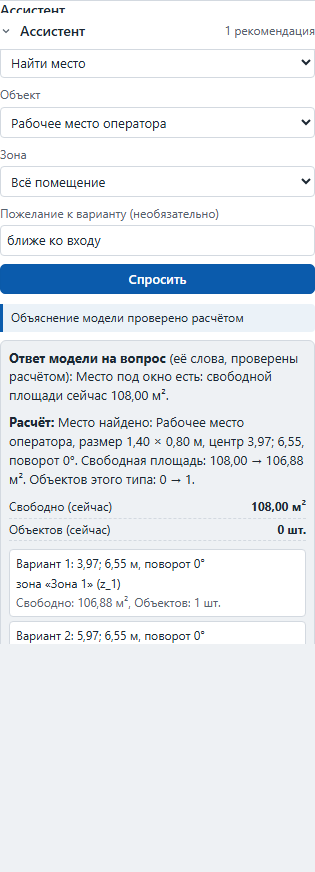
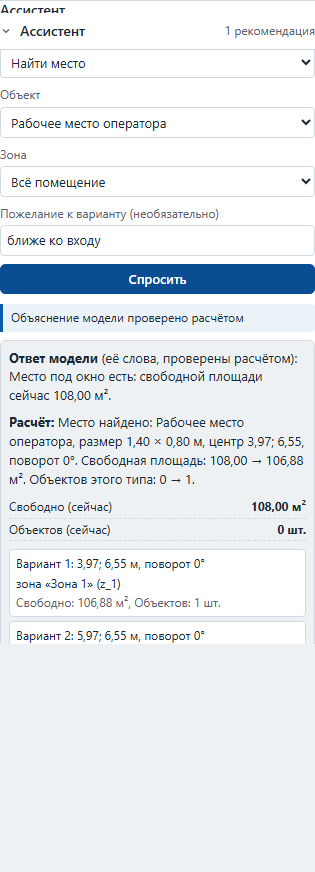
ai: подпись ответа модели согласована с названием поля

Changed region(s): [[0.0, 0.2787, 1.0, 0.3406], [0.0286, 0.4025, 0.9429, 0.4644]]

diff --git a/tests/e2e/assistant.spec.ts b/tests/e2e/assistant.spec.ts
@@ -302,7 +302,7 @@ test.describe('ассистент в браузере', () => {
     await panel(page).getByRole('button', { name: 'Спросить' }).click();
 
     const answer = panel(page).getByTestId('assistant-answer');
-    await expect(answer).toContainText('Ответ модели на вопрос');
+    await expect(answer).toContainText('Ответ модели');
     await expect(answer).toContainText('Место под окно есть');
     await expect(answer).toContainText(/\d+,\d\d м²/);
     // Вопрос учтён — плашки про неучтённый вопрос быть не должно.

diff --git a/src/features/assistant/AssistantPanel.tsx b/src/features/assistant/AssistantPanel.tsx
@@ -274,7 +274,7 @@ export function AssistantPanel({
               <article key={recommendation.id} className="advice">
                 {explanation?.text === undefined ? null : (
                   <p className="advice__sentence advice__answer" data-testid="assistant-answer">
-                    <strong>Ответ модели на вопрос</strong> (её слова, проверены расчётом):{' '}
+                    <strong>Ответ модели</strong> (её слова, проверены расчётом):{' '}
                     {explanation.text}
                   </p>
                 )}

diff --git a/docs/tz-compliance.md b/docs/tz-compliance.md
@@ -86,7 +86,7 @@
 | А6 | Обозначены правила комплектования и допущения | `source` и `rationale` у каждого правила; `provenance` у каждого типа; панель печатает допущения и ограничения рядом с рекомендацией | `catalog.test.ts` и `equipment.test.ts`: источник правила в тексте; `tests/e2e/assistant.spec.ts`: в браузере видно «Допущения и правила» и ограничение рекомендации | ✅ (C01+A02+A06): источник правила виден проверяющему, не читая код |
 | А7 | Связь рекомендации и результата: что, почему, как отразилось на планировке и показателях | `Recommendation.changes` и факты before/after/delta в панели ассистента; демо-комплект E01 — `demo/recommendation.json` (что менять, `id`, правила, допущения) и `demo/effect.md` (было → стало) | `compare.test.ts`: пять видов изменений попадают в `changes`; `tests/demo.test.ts`: применённые изменения совпадают с рекомендацией, а таблица эффекта — с расчётом по обоим планам; `tests/e2e/demo.spec.ts`: та же рекомендация, применённая руками в редакторе, даёт ровно `after.json` | ✅ (A03+A06+E01): свободная площадь 114,49 → 113,69 м², скамей в зоне ожидания 1 → 2, табло 2 → 1, ошибок 1 → 0, предупреждений 2 → 0 |
 | А8 | Методы, внешние зависимости и ограничения ассистента описаны | раздел «ИИ-ассистент» в [README](../README.md): три сценария по ролям, правило «числа считает код», проверка ответа модели, поведение без LLM, настройка провайдера, зависимости и семь ограничений | чтение README: числа перебора, таймаута и лимита сверены с `placement.ts` и `server/config.ts`; ссылки на файлы проверены | ✅ (A06+E02): раздел написан; ограничения внешнего анализа — [R01](research/deep-research-report.md), R01 принят частично; остальные разделы README (редактор, формат, объём данных) — за E02 |
-| А9 | Свободное пожелание пользователя получает ответ модели, проверенный кодом | `Explanation.text` (контракт `src/contracts/advice.ts`) + мягкая проверка `id` и чисел в `src/domain/advice/explanation.ts` (`allowedIds`, `allowedNumbers`, `unknownIds`, `unknownNumbers`); правила текста перечислены в системном промпте `server/advice-route.ts`; панель показывает текст подписью «Ответ модели на вопрос» рядом с подписанным «Расчёт:» (D-223 поверх D-222) | `src/domain/advice/answer-text.test.ts` (12 тестов: выдуманный `id`, выдуманное число, округление 12,3456789 → «12,35», запятая и точка, превышение предела, пустой текст, отсутствие текста, жёсткий отказ структуры); `server/advice-route.test.ts` (6 тестов на подставной модели, включая врущую: `mode` остаётся `llm`, текст не доходит); `AssistantPanel.test.tsx` (три состояния плашки); `tests/e2e/assistant.spec.ts` «свободное пожелание» 10/10 | ✅ (A08): пять мутаций пойманы, ноль выживших; живого вызова провайдера на этой машине не было — ключа нет, проверялось подставной моделью |
+| А9 | Свободное пожелание пользователя получает ответ модели, проверенный кодом | `Explanation.text` (контракт `src/contracts/advice.ts`) + мягкая проверка `id` и чисел в `src/domain/advice/explanation.ts` (`allowedIds`, `allowedNumbers`, `unknownIds`, `unknownNumbers`); правила текста перечислены в системном промпте `server/advice-route.ts`; панель показывает текст подписью «Ответ модели» рядом с подписанным «Расчёт:» (D-223 поверх D-222) | `src/domain/advice/answer-text.test.ts` (12 тестов: выдуманный `id`, выдуманное число, округление 12,3456789 → «12,35», запятая и точка, превышение предела, пустой текст, отсутствие текста, жёсткий отказ структуры); `server/advice-route.test.ts` (6 тестов на подставной модели, включая врущую: `mode` остаётся `llm`, текст не доходит); `AssistantPanel.test.tsx` (три состояния плашки); `tests/e2e/assistant.spec.ts` «свободное пожелание» 10/10 | ✅ (A08): пять мутаций пойманы, ноль выживших; живого вызова провайдера на этой машине не было — ключа нет, проверялось подставной моделью |
 
 ## 5. Упрощённое 3D — критерий 5%
 

diff --git a/README.md b/README.md
@@ -315,7 +315,7 @@ DEPLOY_URL=http://127.0.0.1:8080 npx playwright test tests/e2e/deployment.spec.t
 4. **Ответ на свободное пожелание.** Если в поле «Пожелание к варианту» что-то написано, модель может
    добавить `text` — короткий ответ своими словами (до 600 символов). Само пожелание
    при этом по-прежнему не расширяет расчёт и не добавляет фактов (D-222). Ответ
-   показывается отдельным абзацем с подписью «Ответ модели на вопрос», а предложение расчёта рядом
+   показывается отдельным абзацем с подписью «Ответ модели», а предложение расчёта рядом
    подписано «Расчёт:», чтобы слова модели и числа кода не смешивались (D-223).
 5. **Проверка ответа.** `verifyExplanation` отклоняет ответ, если это не JSON, если есть
    лишнее поле (частый способ протащить выдуманное число), если `id` рекомендации, факта
